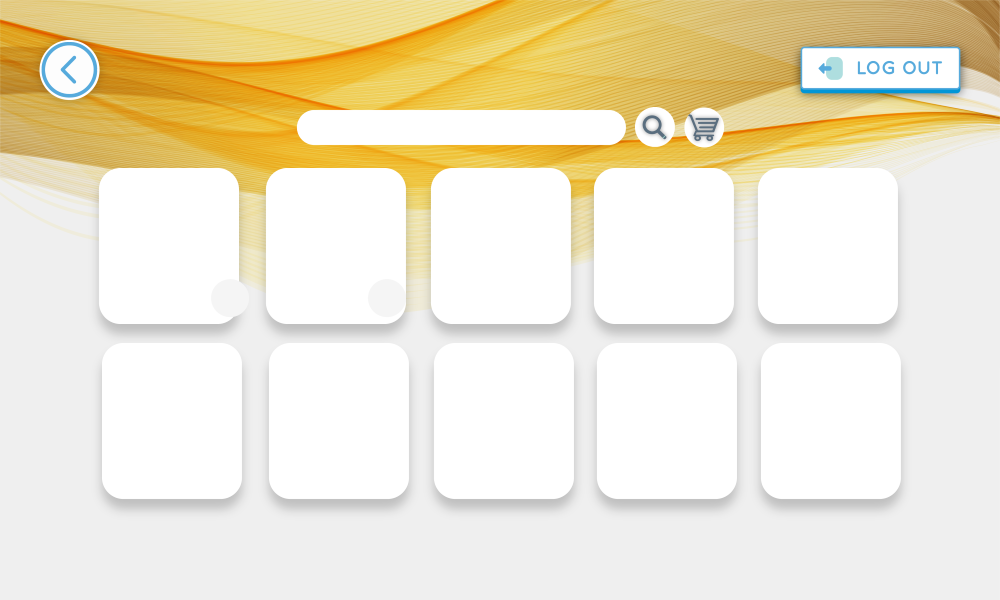
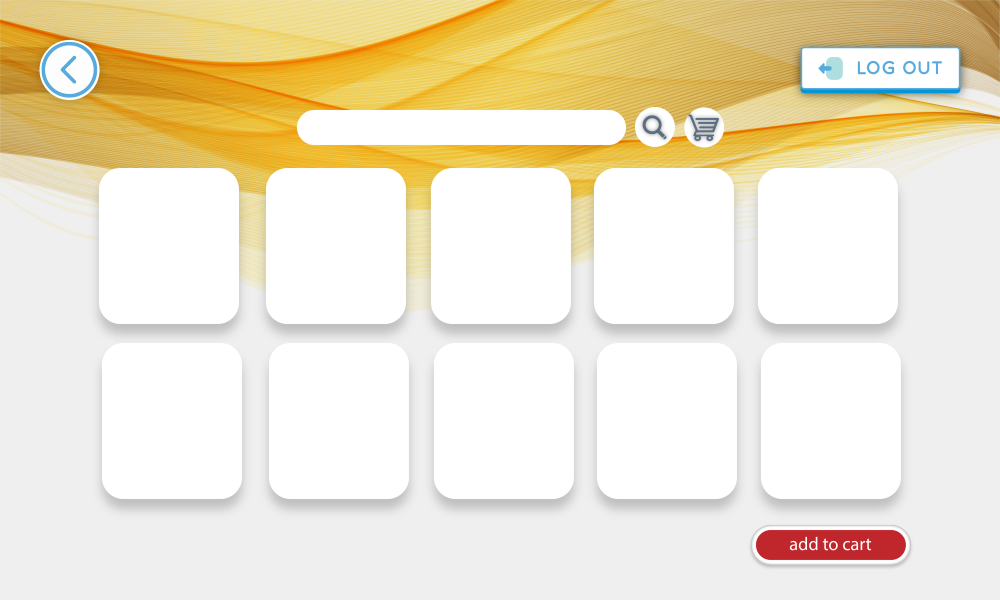
s

Changed region(s): [[0.744, 0.87, 0.93, 0.96]]

diff --git a/wms/src/Shopping.java b/wms/src/Shopping.java
@@ -9,7 +9,7 @@ public class Shopping extends JFrame {
 	
 	private JLabel jlabelsearch,jlabelcart,jlabelback,jlabelsignout;
 	private JTextField jtextfield;
-	private JLabel jlabelimage;
+	private JLabel jlabelimage,addtocart;
 	private JPanel panel;
 	private List<Rectangle> labelBounds;
     public Shopping() {
@@ -48,8 +48,33 @@ public class Shopping extends JFrame {
                 y += 171;
             }
         }
+        
+        addtocart = new JLabel("");
+		addtocart.addMouseListener(new MouseAdapter() {
+			@Override
+			public void mouseClicked(MouseEvent e) {
+				
+				//adds product to cart
+				System.out.println("product added");
+			}
+			@Override
+			public void mouseEntered(MouseEvent e) {
+			}
+			@Override
+			public void mouseExited(MouseEvent e) {
+			}
+			@Override
+			public void mousePressed(MouseEvent e) {
+			}
+			@Override
+			public void mouseReleased(MouseEvent e) {
+			}
+		});
+		addtocart.setBounds(751, 530, 165, 34);
+		panel.add(addtocart);
+		
 
-        add(panel, BorderLayout.CENTER);
+        getContentPane().add(panel, BorderLayout.CENTER);
         jlabelsearch = new JLabel("\r\n");
 		jlabelsearch.addMouseListener(new MouseAdapter() {
 			@Override

diff --git a/wms/src/SeeDetails.java b/wms/src/SeeDetails.java
@@ -1,4 +1,4 @@
-import javax.swing.*;
+jhahahsfhskfj import javax.swing.*;/////////////////////////////////////////////class not needed 
 import java.awt.*;
 import java.awt.event.*;
 public class SeeDetails {
